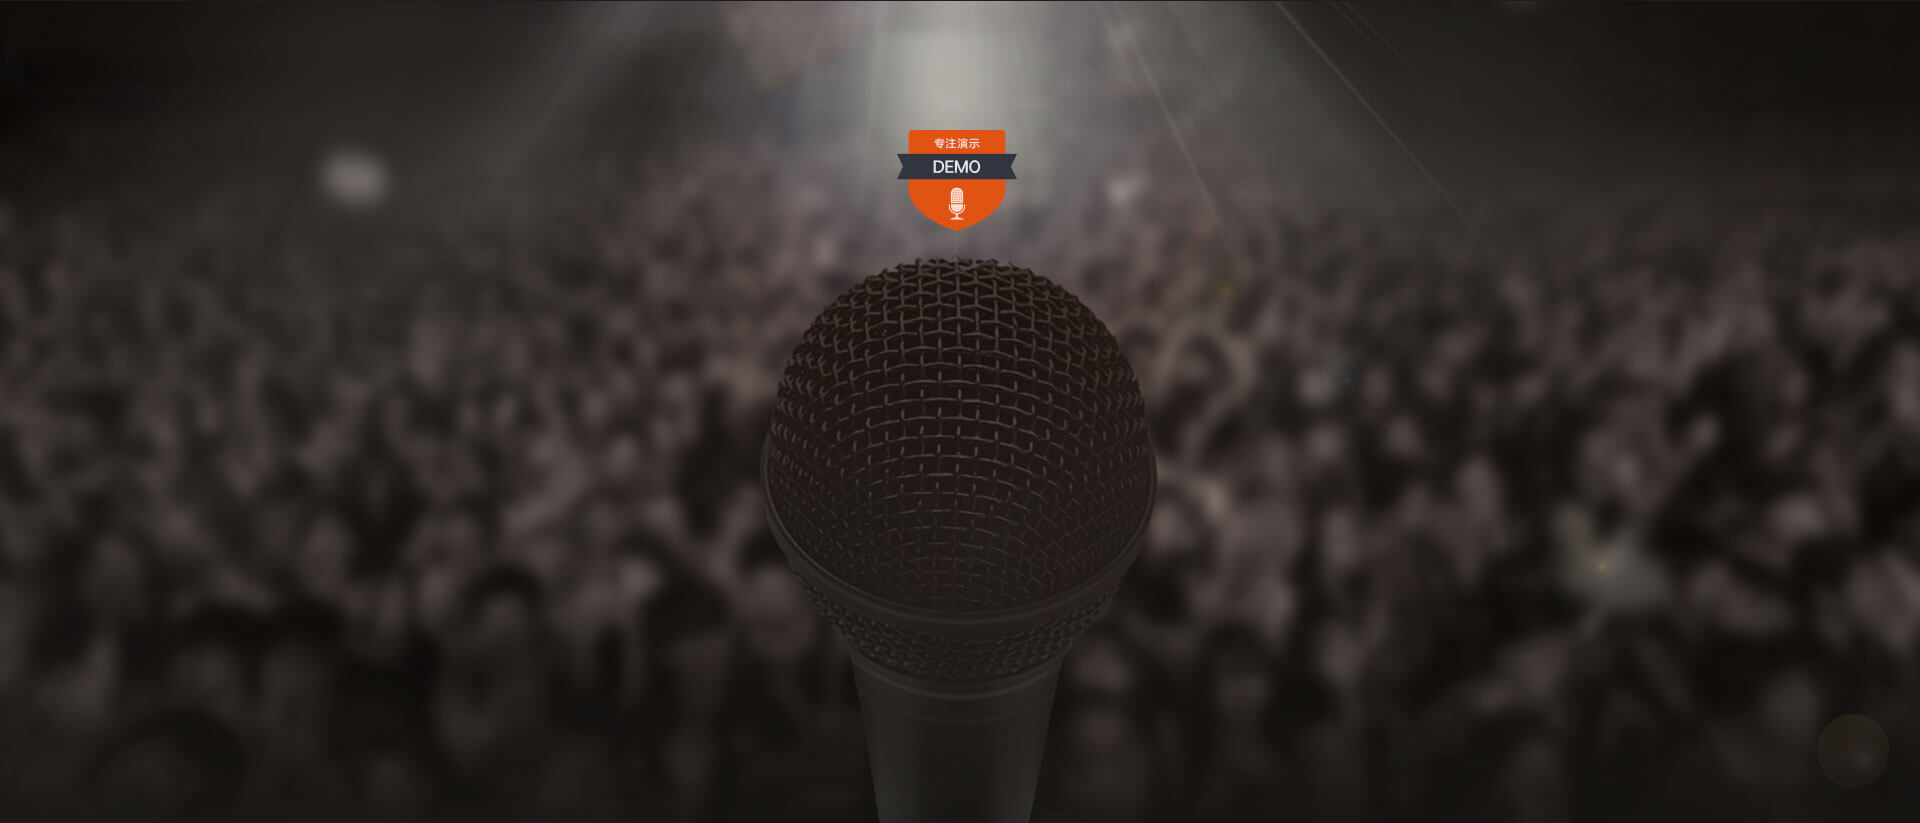
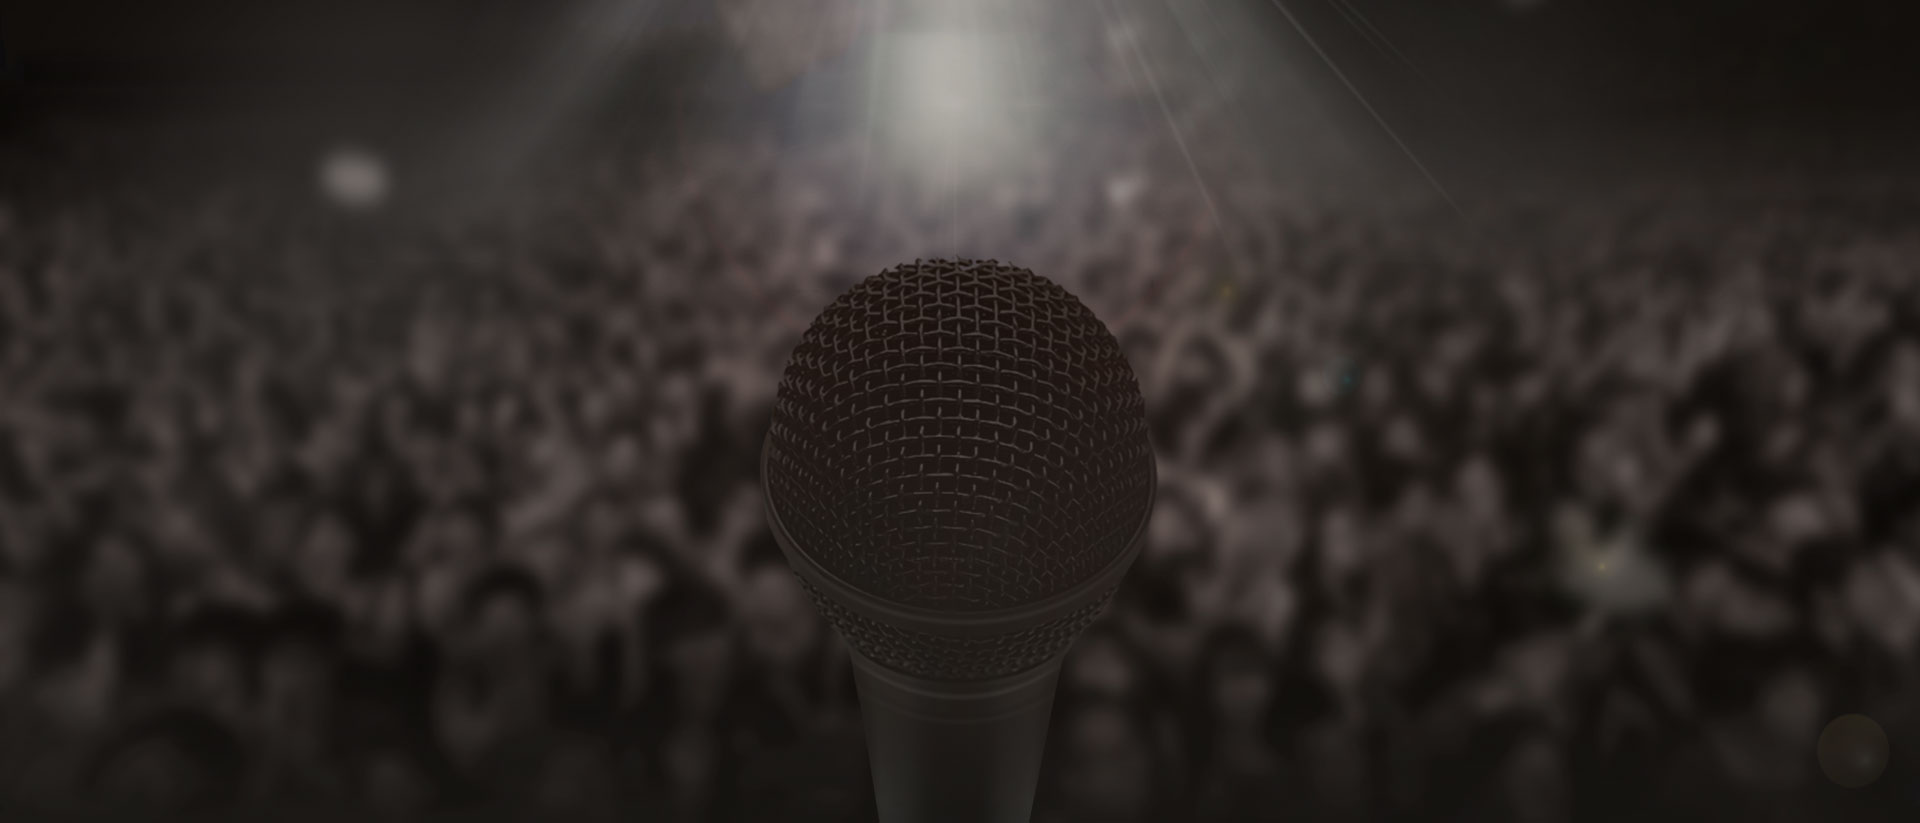
update

Changed region(s): [[0.4688, 0.1519, 0.5312, 0.2734]]

diff --git a/index.html b/index.html
@@ -76,13 +76,17 @@
 				                                    <div class="range range-lg-center mb100">
 				                                        <div class="cell-lg-12">
 				                                            <h1>
-				                                            	<span data-caption-animate="fadeInUp" data-caption-delay="500" class="hidden big text-uppercase">
+				                                            	<span data-caption-animate="fadeInUp" data-caption-delay="400" class="hidden big text-uppercase intro1-title">
+				                                            		<div class="intro1-topic">
+				                                            			<span class="txt">专注演示</span>
+				                                            			<img src="./images/swiper/intro-01-topic.png">
+				                                            		</div>
 				                                            		<span class="orange">助力您的</span>每一场演示
 				                                            	</span>
 				                                            </h1>
 				                                        </div>
 				                                        <div class="cell-lg-10 offset-top-30">
-				                                            <h4 data-caption-animate="fadeInUp" data-caption-delay="700" class="hidden text-light">
+				                                            <h4 data-caption-animate="fadeInUp" data-caption-delay="800" class="hidden text-light">
 				                                            	<p>
 				                                            		<span class="caption-txt intro1-txt">声画合一&nbsp;&nbsp;彰显企业风范</span>
 				                                            	</p>

diff --git a/css/style.css b/css/style.css
@@ -87,6 +87,7 @@
     margin-top: -200px !important;
 }
 
+.intro1-title,
 .intro3-title {
     margin-top: -80px !important;
 }
@@ -166,11 +167,20 @@
     margin-left: 27px;
 }
 
+.intro1-topic,
 .intro3-topic,
 .intro4-topic {
     position: relative;
     width: 115px;
     margin: 0 auto 35px;
+}
+
+.intro1-topic .txt {
+    position: absolute;
+    left: 34px;
+    top: 6px;
+    color: #fff;
+    font-size: 12px;
 }
 
 .intro3-topic .txt {
